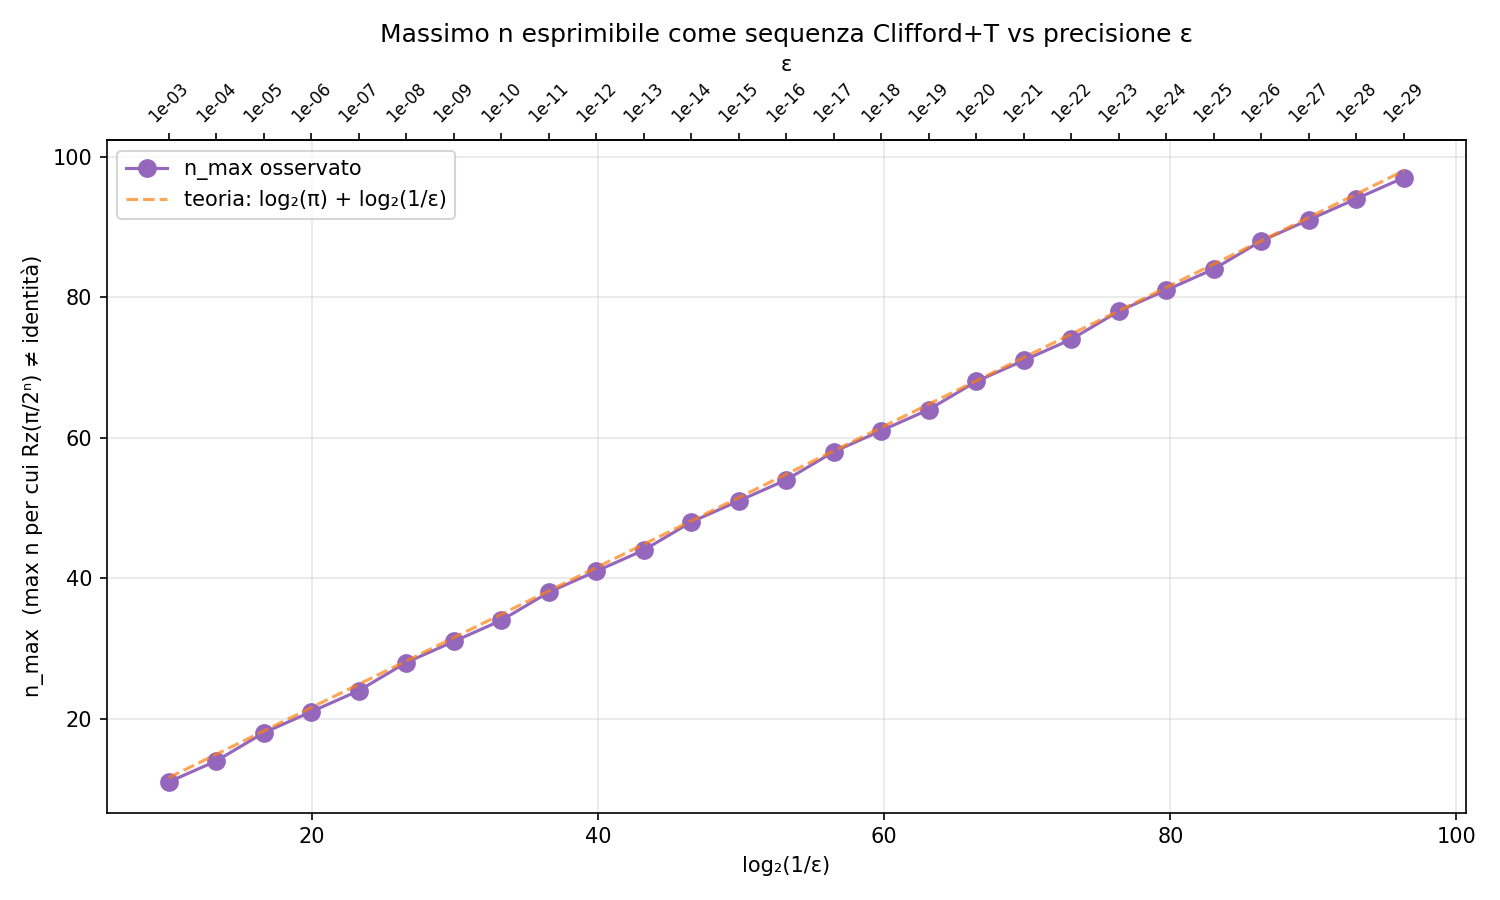
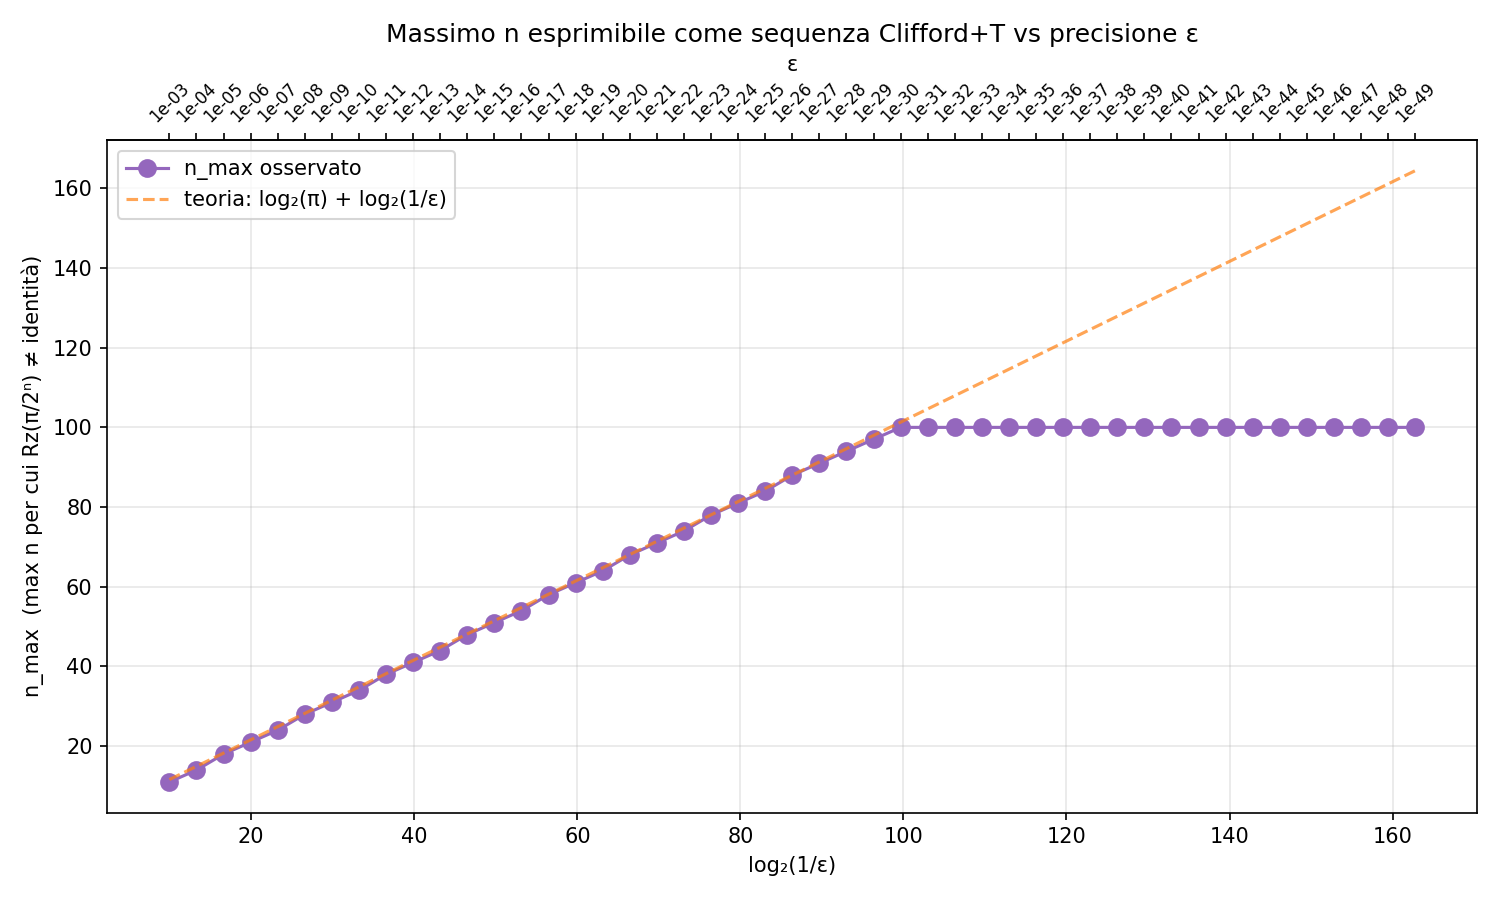
fixed graph

diff --git a/2026/gridsynth_analysis.py b/2026/gridsynth_analysis.py
@@ -202,6 +202,62 @@ def plot_slopes(ns, t_slopes, t_intercepts, clf_slopes, clf_intercepts, t_r2s, c
     print("Plot salvato in gridsynth_slopes.png")
 
 
+def plot_global_fit(n_min: int, n_max: int, epsilons: list[float]) -> tuple[float, float]:
+    """Single plot: T-count data for all n on one axis + one global linear fit."""
+    all_x, all_y_t, all_y_c = [], [], []
+
+    cmap = plt.get_cmap("viridis")
+    ns_range = list(range(n_min, n_max + 1))
+    colors = [cmap(i / max(len(ns_range) - 1, 1)) for i in range(len(ns_range))]
+
+    fig, (ax_t, ax_c) = plt.subplots(1, 2, figsize=(16, 6))
+
+    for color, n in zip(colors, ns_range):
+        theta = np.pi / 2**n
+        t_counts, cliff_counts, valid_eps = analyze_epsilon(theta, epsilons)
+        if not valid_eps:
+            continue
+        x_log = np.log2(1.0 / np.array(valid_eps))
+        ax_t.scatter(x_log, t_counts, color=color, s=12, alpha=0.6)
+        ax_c.scatter(x_log, cliff_counts, color=color, s=12, alpha=0.6)
+        all_x.extend(x_log.tolist())
+        all_y_t.extend(t_counts)
+        all_y_c.extend(cliff_counts)
+
+    all_x = np.array(all_x)
+    all_y_t = np.array(all_y_t, dtype=float)
+    all_y_c = np.array(all_y_c, dtype=float)
+
+    results = {}
+    for ax, all_y, tag, theory_a in [(ax_t, all_y_t, "T", 3.0), (ax_c, all_y_c, "Clifford", 4.7)]:
+        (a, b), _ = curve_fit(lambda x, a, b: a * x + b, all_x, all_y)
+        x_fine = np.linspace(all_x.min(), all_x.max(), 300)
+        ax.plot(x_fine, a * x_fine + b, "r-", linewidth=2,
+                label=f"Global fit: {a:.3f}·log₂(1/ε) + {b:.2f}")
+        ax.plot(x_fine, theory_a * x_fine, "k--", linewidth=1.2, alpha=0.6,
+                label=f"Theory: {theory_a}·log₂(1/ε)")
+        ax.set_xlabel("log₂(1/ε)")
+        ax.set_ylabel("Gate count")
+        ax.set_title(f"{tag}-count — global fit  a={a:.4f}  b={b:.4f}")
+        ax.legend(fontsize=8)
+        ax.grid(True, alpha=0.3)
+        results[tag] = (a, b)
+        print(f"Global fit {tag}-count:  a = {a:.4f}  b = {b:.4f}")
+
+    sm = plt.cm.ScalarMappable(cmap="viridis",
+                               norm=plt.Normalize(vmin=n_min, vmax=n_max))
+    sm.set_array([])
+    cbar = fig.colorbar(sm, ax=ax_c, fraction=0.046, pad=0.04)
+    cbar.set_label("n  (θ = π/2ⁿ)", rotation=270, labelpad=15)
+
+    plt.suptitle(f"gridsynth_rz global fit  n={n_min}..{n_max}", fontsize=13)
+    plt.tight_layout()
+    plt.savefig("gridsynth_global_fit.png", dpi=150)
+    plt.show()
+    print("Plot salvato in gridsynth_global_fit.png")
+    return results
+
+
 if __name__ == "__main__":
     epsilons = [10 ** (-e) for e in range(3, 50)]
     N_MAX = 100
@@ -212,6 +268,8 @@ if __name__ == "__main__":
                         help="n di partenza per entrambi i plot (default: 1)")
     parser.add_argument("--n-detail", type=int, default=10,
                         help="n finale per il plot dettagliato (default: 10)")
+    parser.add_argument("--n-global-max", type=int, default=40,
+                        help="n massimo per il global-fit plot (default: 40)")
     args, _ = parser.parse_known_args()
 
     n_start = max(1, args.n_start)
@@ -227,6 +285,9 @@ if __name__ == "__main__":
     print(f"Media intercetta (b) Clifford (n>=3): {clf_intercepts[mask].mean():.4f}")
 
     plot_slopes(ns, t_slopes, t_intercepts, clf_slopes, clf_intercepts, t_r2s, clf_r2s)
+
+    print("\nGlobal fit su tutti gli n...")
+    plot_global_fit(n_start, args.n_global_max, epsilons)
 
     print("\nCalcolo n_max(ε)...")
     max_ns = find_max_n(epsilons, n_max=N_MAX)

diff --git a/2026/syntesis_1_2.py b/2026/syntesis_1_2.py
@@ -186,10 +186,6 @@ def CCZ_gate(qubit1, qubit2, qubit3) -> Register:
     return [qubit1, qubit2, qubit3]
 
 
-
-
-    return qubit
-
 @squin.kernel
 def Injected_T_gate(qubit, ancilla) -> Qubit:
     # Prepare the magic state |A> = T|+> on the ancilla.
